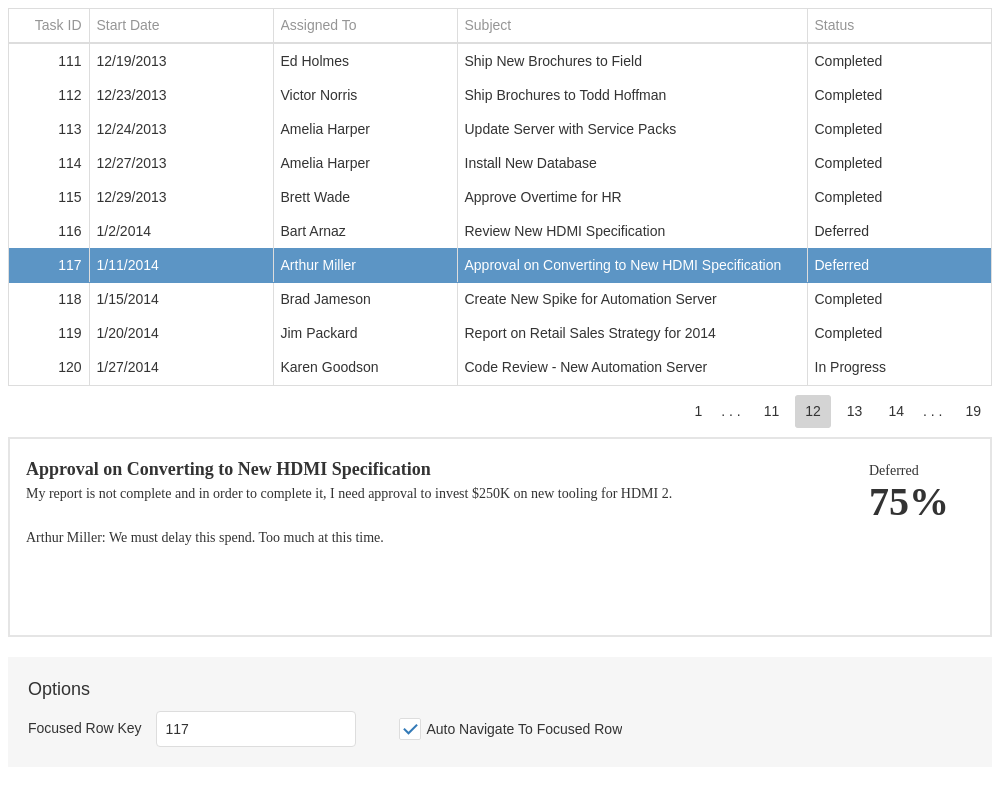
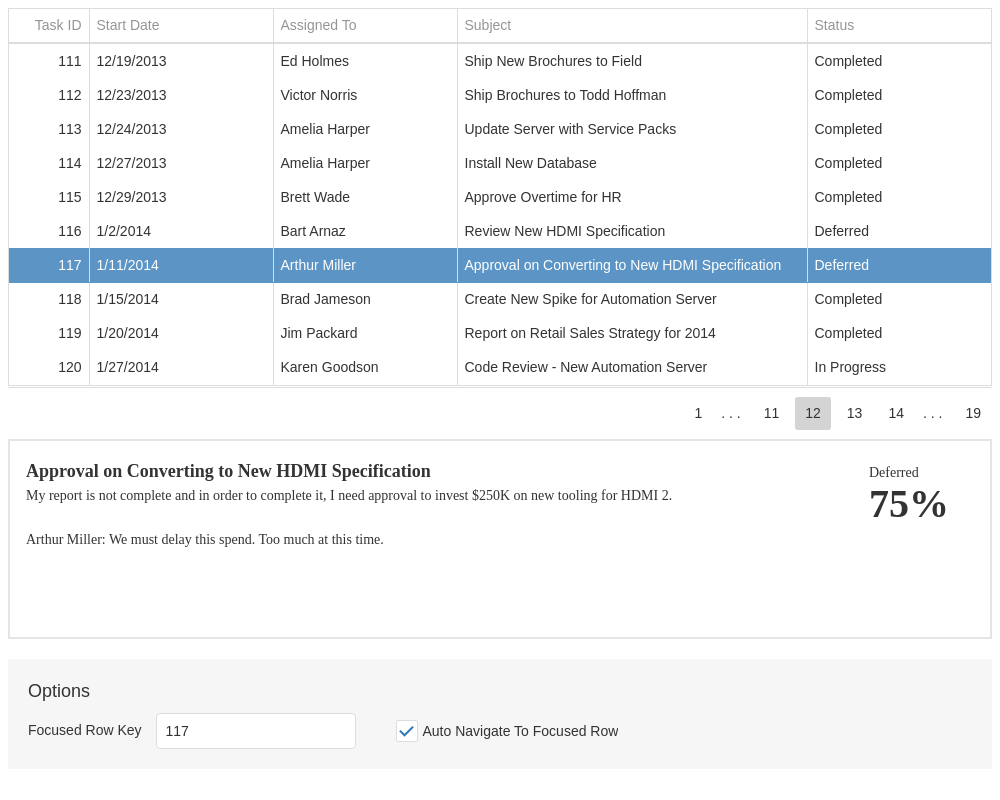
add flex container

diff --git a/JSDemos/Demos/DataGrid/FocusedRow/React/App.js b/JSDemos/Demos/DataGrid/FocusedRow/React/App.js
@@ -125,25 +125,26 @@ class App extends React.Component {
 
         <div className="options">
           <div className="caption">Options</div>
-          <div className="option">
-            <span>Focused Row Key </span>
-            <NumberBox
-              id="taskId"
-              min={1}
-              max={183}
-              step={0}
-              value={this.state.focusedRowKey}
-              onValueChanged={this.onTaskIdChanged}>
-            </NumberBox>
-          </div>
-          &nbsp;
-          <div className="option">
-            <CheckBox
-              text="Auto Navigate To Focused Row"
-              value={this.state.autoNavigateToFocusedRow}
-              onValueChanged={this.onAutoNavigateToFocusedRowChanged}>
-            </CheckBox>
-          </div>
+          <div className="options-container">
+            <div className="option">
+              <span>Focused Row Key </span>
+              <NumberBox
+                id="taskId"
+                min={1}
+                max={183}
+                step={0}
+                value={this.state.focusedRowKey}
+                onValueChanged={this.onTaskIdChanged}>
+              </NumberBox>
+            </div>
+            <div className="option">
+              <CheckBox
+                text="Auto Navigate To Focused Row"
+                value={this.state.autoNavigateToFocusedRow}
+                onValueChanged={this.onAutoNavigateToFocusedRowChanged}>
+              </CheckBox>
+            </div>
+          </div>  
         </div>
       </div>
     );

diff --git a/JSDemos/Demos/DataGrid/FocusedRow/Vue/App.vue b/JSDemos/Demos/DataGrid/FocusedRow/Vue/App.vue
@@ -31,22 +31,24 @@
 
     <div class="options">
       <div class="caption">Options</div>
-      <div class="option">
-        <span>Focused Row Key </span>
-        <DxNumberBox
-          id="taskId"
-          :ref="taskIdEditorRefName"
-          :min="1"
-          :max="183"
-          :step="0"
-          v-model:value="focusedRowKey"
-        />
-      </div>
-      <div class="option">
-        <DxCheckBox
-          :text="'Auto Navigate To Focused Row'"
-          v-model:value="autoNavigateToFocusedRow"
-        />
+      <div class="options-container">
+        <div class="option">
+          <span>Focused Row Key </span>
+          <DxNumberBox
+            id="taskId"
+            :ref="taskIdEditorRefName"
+            :min="1"
+            :max="183"
+            :step="0"
+            v-model:value="focusedRowKey"
+          />
+        </div>
+        <div class="option">
+          <DxCheckBox
+            :text="'Auto Navigate To Focused Row'"
+            v-model:value="autoNavigateToFocusedRow"
+          />
+        </div>
       </div>
     </div>
   </div>

diff --git a/JSDemos/Demos/DataGrid/FocusedRow/Angular/app/app.component.html b/JSDemos/Demos/DataGrid/FocusedRow/Angular/app/app.component.html
@@ -25,20 +25,22 @@
 
 <div class="options">
     <div class="caption">Options</div>
-    <div class="option">
-        <span>Focused Row Key</span>
-        <dx-number-box
-            id="taskId"
-            min="1"
-            max="183"
-            step="0"
-            [(value)]="focusedRowKey">
-        </dx-number-box>
-    </div>
-    <div class="option">
-        <dx-check-box
-            [text]="'Auto Navigate To Focused Row'"
-            [(value)]="autoNavigateToFocusedRow">
-        </dx-check-box>
+    <div class="options-container">
+        <div class="option">
+            <span>Focused Row Key</span>
+            <dx-number-box
+                id="taskId"
+                min="1"
+                max="183"
+                step="0"
+                [(value)]="focusedRowKey">
+            </dx-number-box>
+        </div>
+        <div class="option">
+            <dx-check-box
+                [text]="'Auto Navigate To Focused Row'"
+                [(value)]="autoNavigateToFocusedRow">
+            </dx-check-box>
+        </div>
     </div>
 </div>

diff --git a/JSDemos/Demos/DataGrid/FocusedRow/AngularJS/index.html b/JSDemos/Demos/DataGrid/FocusedRow/AngularJS/index.html
@@ -31,12 +31,14 @@
         </div>
         <div class="options">
             <div class="caption">Options</div>
-            <div class="option">
-                <span>Focused Row Key</span>
-                <div id="taskId" dx-number-box="focusedRowKeyOptions"></div>
-            </div>
-            <div class="option">
-                <div dx-check-box="autoNavigateToFocusedRowOptions"></div>
+            <div class="options-container">
+                <div class="option">
+                    <span>Focused Row Key</span>
+                    <div id="taskId" dx-number-box="focusedRowKeyOptions"></div>
+                </div>
+                <div class="option">
+                    <div dx-check-box="autoNavigateToFocusedRowOptions"></div>
+                </div>
             </div>
         </div>
     </div>

diff --git a/JSDemos/Demos/DataGrid/FocusedRow/jQuery/index.html b/JSDemos/Demos/DataGrid/FocusedRow/jQuery/index.html
@@ -27,12 +27,14 @@
         </div>
         <div class="options">
             <div class="caption">Options</div>
-            <div class="option">
-                <span>Focused Row Key</span>
-                <div id="taskId"></div>
-            </div>
-            <div class="option">
-                <div id="autoNavigateCheckboxId"></div>
+            <div class="options-container">
+                <div class="option">
+                    <span>Focused Row Key</span>
+                    <div id="taskId"></div>
+                </div>
+                <div class="option">
+                    <div id="autoNavigateCheckboxId"></div>
+                </div>
             </div>
         </div>
     </div>

diff --git a/MVCDemos/Content/DemosStyles/DataGrid/FocusedRow.css b/MVCDemos/Content/DemosStyles/DataGrid/FocusedRow.css
@@ -58,16 +58,21 @@
     display: inline-block;
 }
 
-    .option:last-child {
-        margin-right: 0;
-    }
+.option:last-child {
+    margin-right: 0;
+}
 
-    .option > .dx-numberbox {
-        width: 200px;
-        display: inline-block;
-        vertical-align: middle;
-    }
+.option > .dx-numberbox {
+    width: 200px;
+    display: inline-block;
+    vertical-align: middle;
+}
 
-    .option > span {
-        margin-right: 10px;
-    }
+.option > span {
+    margin-right: 10px;
+}
+
+.options-container {
+    display: flex;
+    align-items: center;
+}

diff --git a/NetCoreDemos/wwwroot/css/DemosStyles/DataGrid/FocusedRow.css b/NetCoreDemos/wwwroot/css/DemosStyles/DataGrid/FocusedRow.css
@@ -58,16 +58,21 @@
     display: inline-block;
 }
 
-    .option:last-child {
-        margin-right: 0;
-    }
+.option:last-child {
+    margin-right: 0;
+}
 
-    .option > .dx-numberbox {
-        width: 200px;
-        display: inline-block;
-        vertical-align: middle;
-    }
+.option > .dx-numberbox {
+    width: 200px;
+    display: inline-block;
+    vertical-align: middle;
+}
 
-    .option > span {
-        margin-right: 10px;
-    }
+.option > span {
+    margin-right: 10px;
+}
+
+.options-container {
+    display: flex;
+    align-items: center;
+}

diff --git a/JSDemos/Demos/DataGrid/FocusedRow/Vue/styles.css b/JSDemos/Demos/DataGrid/FocusedRow/Vue/styles.css
@@ -49,7 +49,7 @@
 
 .option {
     margin-top: 10px;
-    margin-right: 44px;
+    margin-right: 40px;
     display: inline-block;
  }
 
@@ -65,4 +65,9 @@
 
 .option > span {
     margin-right: 10px;
+}
+
+.options-container {
+    display: flex;
+    align-items: center;
 }

diff --git a/JSDemos/Demos/DataGrid/FocusedRow/Angular/app/app.component.css b/JSDemos/Demos/DataGrid/FocusedRow/Angular/app/app.component.css
@@ -66,3 +66,8 @@
 .option > span {
     margin-right: 10px;
 }
+
+.options-container {
+    display: flex;
+    align-items: center;
+}

diff --git a/JSDemos/Demos/DataGrid/FocusedRow/AngularJS/styles.css b/JSDemos/Demos/DataGrid/FocusedRow/AngularJS/styles.css
@@ -66,3 +66,8 @@
 .option > span {
     margin-right: 10px;
 }
+
+.options-container {
+    display: flex;
+    align-items: center;
+}

diff --git a/JSDemos/Demos/DataGrid/FocusedRow/React/styles.css b/JSDemos/Demos/DataGrid/FocusedRow/React/styles.css
@@ -66,3 +66,8 @@
 .option > span {
     margin-right: 10px;
 }
+
+.options-container {
+    display: flex;
+    align-items: center;
+}

diff --git a/JSDemos/Demos/DataGrid/FocusedRow/jQuery/styles.css b/JSDemos/Demos/DataGrid/FocusedRow/jQuery/styles.css
@@ -66,3 +66,8 @@
 .option > span {
     margin-right: 10px;
 }
+
+.options-container {
+    display: flex;
+    align-items: center;
+}
